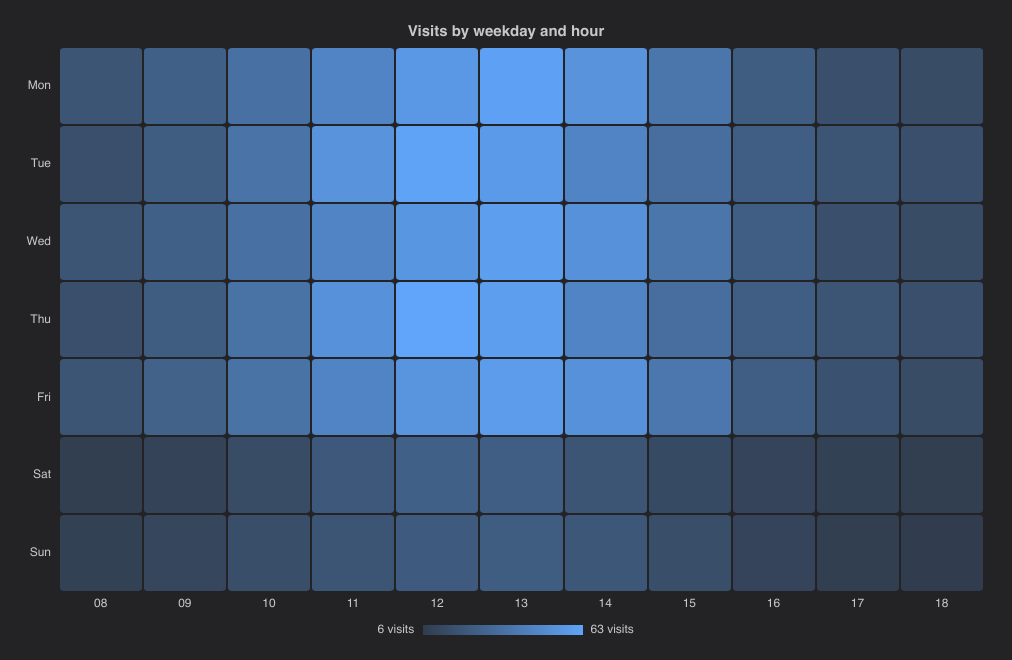
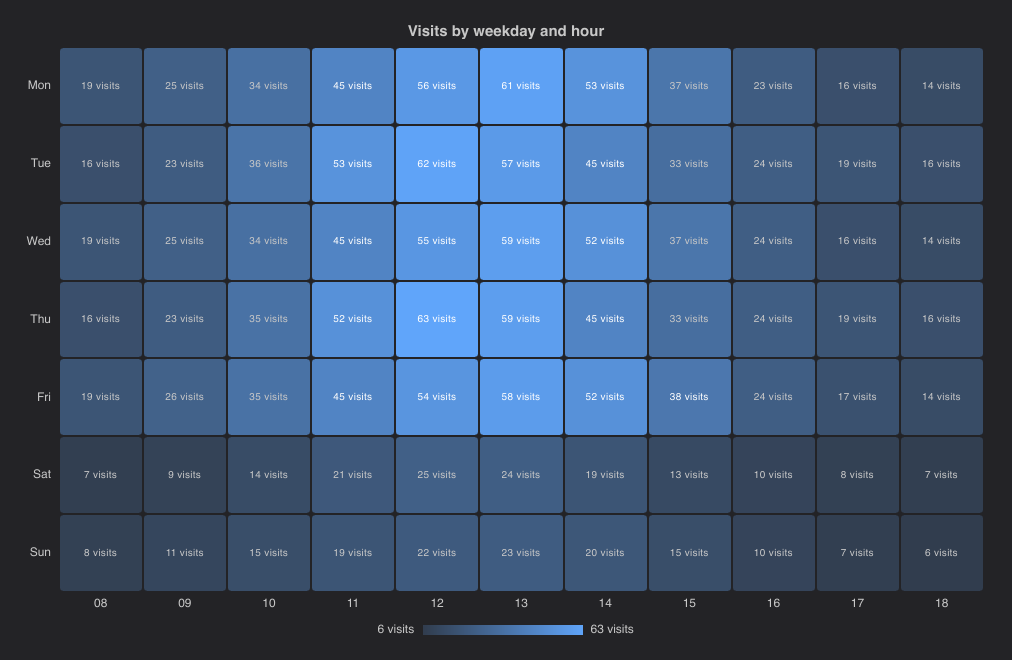
Website: the HeatmapChart example writes the value in each cell

diff --git a/docs/index.html b/docs/index.html
@@ -1365,7 +1365,7 @@ CandlestickChart {
 <h2 id="heatmap">HeatmapChart</h2>
 <p>A matrix of colored cells: rows (<code>y-labels</code>) by columns (<code>x-labels</code>), with <code>values</code> in row order.
 Missing values (NaN) are drawn as empty cells.</p>
-<figure class="shot"><img width="1012" height="660" class="when-light" src="screenshots/charts/heatmap.webp" alt="HeatmapChart: visits by weekday and hour" loading="lazy"><img width="1012" height="660" class="when-dark" src="screenshots/charts/heatmap-dark.webp" alt="HeatmapChart: visits by weekday and hour" loading="lazy"></figure>
+<figure class="shot"><img width="1012" height="660" class="when-light" src="screenshots/charts/heatmap.webp" alt="HeatmapChart: visits by weekday and hour, with the number in each cell" loading="lazy"><img width="1012" height="660" class="when-dark" src="screenshots/charts/heatmap-dark.webp" alt="HeatmapChart: visits by weekday and hour, with the number in each cell" loading="lazy"></figure>
 <pre data-shot="heatmap"><code>import { HeatmapChart } from "@slintplot";
 
 HeatmapChart {
@@ -1380,6 +1380,7 @@ HeatmapChart {
               7,  9, 14, 21, 25, 24, 19, 13, 10,  8,  7,
               8, 11, 15, 19, 22, 23, 20, 15, 10,  7,  6];
     value-suffix: " visits";
+    show-values: true;     // the number in each cell
 }</code></pre>
 <table>
   <tr><th>Property</th><th>Type</th><th>Default</th><th>Description</th></tr>
